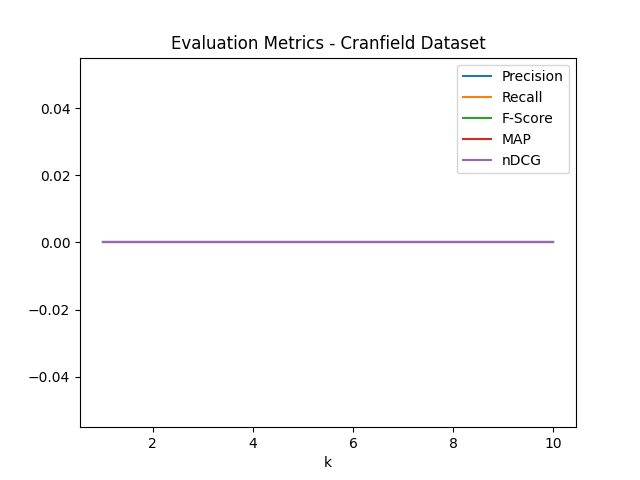
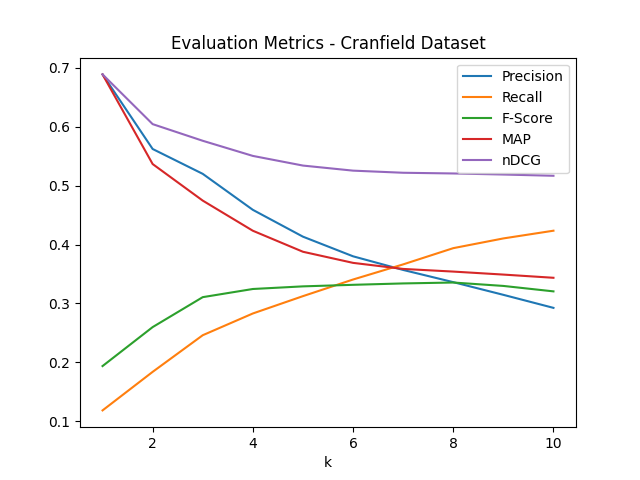
eval done

diff --git a/ME20B167_Assignment-1/evaluation.py b/ME20B167_Assignment-1/evaluation.py
@@ -31,7 +31,7 @@ class Evaluation():
 
         relevant_retrieved_docs = intersection(relevant_docs, retrieved_docs)
        
-        precision = len(relevant_retrieved_docs) / k 
+        precision = float( len(relevant_retrieved_docs) / k )
         
         return precision
 
@@ -66,12 +66,12 @@ class Evaluation():
         for i in range(num_queries):
             relevant_docs = []
             for item in qrels:
-                if query_ids[i] == item['query_num']:
-                    relevant_docs.append(item['id'])
+                if int(query_ids[i]) == int(item['query_num']):
+                    relevant_docs.append(int(item['id']))
             precision = self.queryPrecision(doc_IDs_ordered[i], query_ids[i], relevant_docs, k)
             total_precision += precision
 
-        mean_precision = total_precision / num_queries 
+        mean_precision = float(total_precision / num_queries)
 
         return mean_precision
 
@@ -98,10 +98,10 @@ class Evaluation():
             The recall value as a number between 0 and 1
         """
 
-        relevant_docs = set(true_doc_IDs)
+        relevant_docs = true_doc_IDs
         retrieved_docs = query_doc_IDs_ordered[:k]
 
-        relevant_retrieved_docs = relevant_docs.intersection(retrieved_docs)
+        relevant_retrieved_docs = intersection(relevant_docs, retrieved_docs)
         recall = len(relevant_retrieved_docs) / len(relevant_docs) if len(relevant_docs) != 0 else 0
 
         return recall
@@ -135,12 +135,14 @@ class Evaluation():
         num_queries = len(doc_IDs_ordered)
 
         for i in range(num_queries):
-            query_id = query_ids[i]
-            relevant_docs = [item['id'] for item in qrels if item['query_num'] == query_id and item['position'] == 1]
-            recall = self.queryRecall(doc_IDs_ordered[i], query_id, relevant_docs, k)
+            relevant_docs = []
+            for item in qrels:
+                if int(query_ids[i]) == int(item['query_num']):
+                    relevant_docs.append(int(item['id']))
+            recall = self.queryRecall(doc_IDs_ordered[i], query_ids[i], relevant_docs, k)
             total_recall += recall
 
-        mean_recall = total_recall / num_queries if num_queries != 0 else 0
+        mean_recall = total_recall / num_queries 
 
         return mean_recall
 
@@ -203,9 +205,11 @@ class Evaluation():
         num_queries = len(doc_IDs_ordered)
 
         for i in range(num_queries):
-            query_id = query_ids[i]
-            relevant_docs = [item['id'] for item in qrels if item['query_num'] == query_id and item['relevance'] == 1]
-            fscore = self.queryFscore(doc_IDs_ordered[i], query_id, relevant_docs, k)
+            relevant_docs = []
+            for item in qrels:
+                if int(query_ids[i]) == int(item['query_num']):
+                    relevant_docs.append(int(item['id']))
+            fscore = self.queryFscore(doc_IDs_ordered[i], query_ids[i], relevant_docs, k)
             total_fscore += fscore
 
         mean_fscore = total_fscore / num_queries if num_queries != 0 else 0
@@ -280,9 +284,11 @@ class Evaluation():
         num_queries = len(doc_IDs_ordered)
 
         for i in range(num_queries):
-            query_id = query_ids[i]
-            true_doc_IDs = [item['id'] for item in qrels if item['query_num'] == query_id and item['relevance'] == 1]
-            nDCG = self.queryNDCG(doc_IDs_ordered[i], query_id, true_doc_IDs, k)
+            relevant_docs = []
+            for item in qrels:
+                if int(query_ids[i]) == int(item['query_num']):
+                    relevant_docs.append(int(item['id']))
+            nDCG = self.queryNDCG(doc_IDs_ordered[i], query_ids[i], relevant_docs, k)
             total_NDCG += nDCG
 
         mean_NDCG = total_NDCG / num_queries if num_queries != 0 else 0
@@ -357,9 +363,11 @@ class Evaluation():
         num_queries = len(doc_IDs_ordered)
 
         for i in range(num_queries):
-            query_id = query_ids[i]
-            true_doc_IDs = [item['id'] for item in q_rels if item['query_num'] == query_id and item['relevance'] == 1]
-            avg_precision = self.queryAveragePrecision(doc_IDs_ordered[i], query_id, true_doc_IDs, k)
+            relevant_docs = []
+            for item in q_rels:
+                if int(query_ids[i]) == int(item['query_num']):
+                    relevant_docs.append(int(item['id']))
+            avg_precision = self.queryAveragePrecision(doc_IDs_ordered[i], query_ids[i], relevant_docs, k)
             total_avg_precision += avg_precision
 
         mean_avg_precision = total_avg_precision / num_queries if num_queries != 0 else 0
